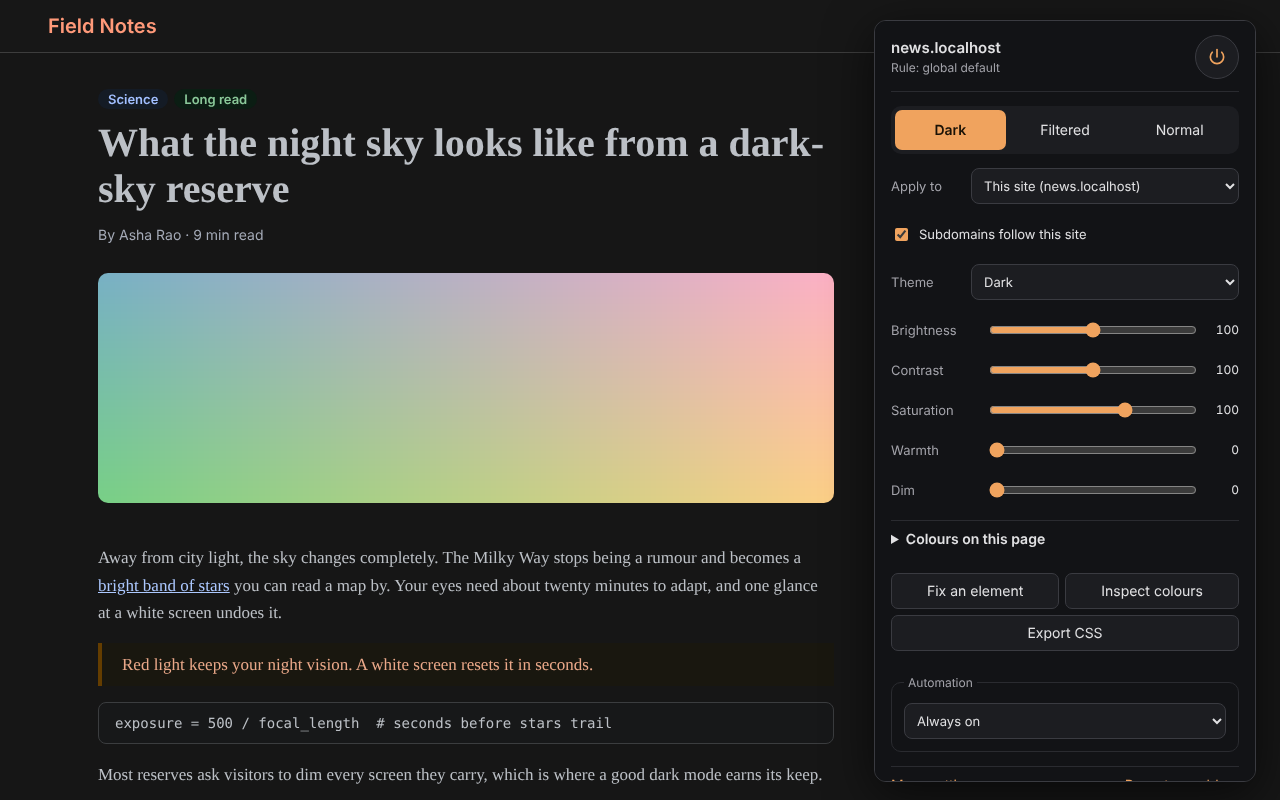
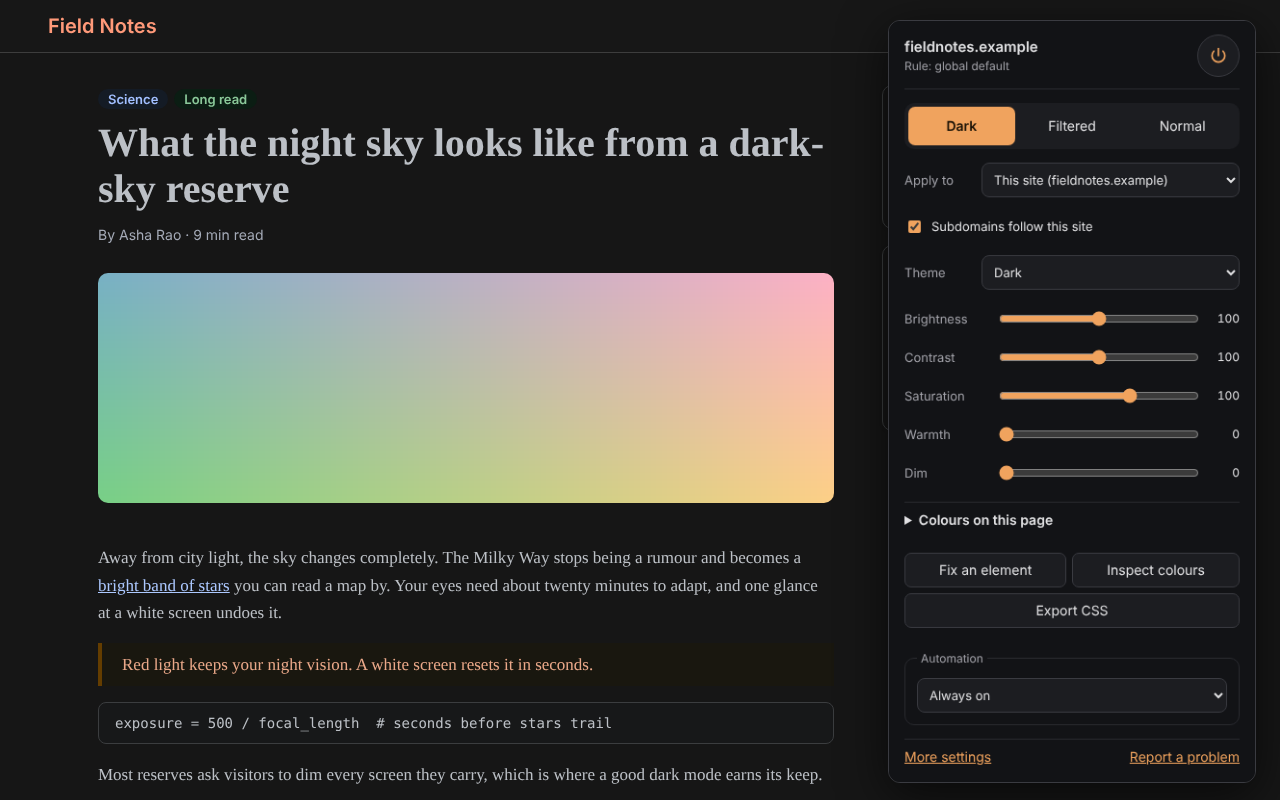
Prepare Chrome Web Store and Firefox Add-ons submission
- Source zip now holds the whole workspace plus BUILDING.md, so Firefox
  reviewers can rebuild the add-on; verified the rebuild is identical
- Name the store zips smart-dark-mode-<version>-<browser>.zip
- Add homepage_url, and minimum_chrome_version 111 for Chromium builds
- Release workflow replaces the files of an unpublished draft when run again
- Store listing: Firefox summary, categories, reviewer notes, data
  disclosure answers, image table and screenshot captions
- Store icon with padding, full popup screenshot, nicer PDF screenshot

diff --git a/apps/extension/wxt.config.ts b/apps/extension/wxt.config.ts
@@ -37,6 +37,26 @@ function pdfjsAssets(): { absoluteSrc: string; relativeDest: string }[] {
 export default defineConfig({
   srcDir: 'src',
   manifestVersion: 3,
+  zip: {
+    artifactTemplate: 'smart-dark-mode-{{version}}-{{browser}}.zip',
+    sourcesTemplate: 'smart-dark-mode-{{version}}-sources.zip',
+    // Firefox Add-ons reviewers rebuild the add-on from this zip. The extension imports
+    // workspace packages, so the zip holds the whole workspace, not just this folder.
+    sourcesRoot: '../..',
+    includeSources: [
+      'BUILDING.md',
+      'LICENSE',
+      'THIRD_PARTY_NOTICES.md',
+      'package.json',
+      'pnpm-lock.yaml',
+      'pnpm-workspace.yaml',
+      'tsconfig.base.json',
+      'apps/extension/**',
+      'packages/**',
+      'tests/harness/package.json',
+    ],
+    excludeSources: ['**/*.test.ts', 'apps/extension/.output/**', 'apps/extension/.wxt/**'],
+  },
   hooks: {
     'build:publicAssets': (_wxt, files) => {
       files.push(...pdfjsAssets());
@@ -49,6 +69,7 @@ export default defineConfig({
     name: '__MSG_extName__',
     description: '__MSG_extDescription__',
     default_locale: 'en',
+    homepage_url: 'https://github.com/nikhil914/smart-dark-mode',
     permissions: [
       'storage',
       'tabs',
@@ -107,6 +128,8 @@ export default defineConfig({
           },
         }
       : {}),
+    // Chromium 111 is the first with world: 'MAIN' content scripts in the manifest.
+    ...(browser !== 'firefox' && browser !== 'safari' ? { minimum_chrome_version: '111' } : {}),
     ...(browser === 'safari'
       ? { browser_specific_settings: { safari: { strict_min_version: '16.4' } } }
       : {}),

diff --git a/docs/store/LISTING.md b/docs/store/LISTING.md
@@ -1,15 +1,23 @@
 # Store listings
 
-Text and assets for each store. Screenshots and promo tiles are in `screenshots/` and are
-rendered by `node tests/harness/assets.mjs` after a build.
+Text and assets for each store. Screenshots, promo tiles and the Chrome Web Store icon are
+in `screenshots/` and are rendered by `node tests/harness/assets.mjs` after a build.
 
 ## Name
 
 Smart Dark Mode
 
-## Short description (Chrome: 132 characters max)
+## Short description
 
-Readable dark mode for every website: themes, per-site rules, dark PDF viewer. Free, open source, no tracking.
+Chrome and Edge show the manifest description (`extDescription` in
+`apps/extension/public/_locales/*/messages.json`) as the summary. It cannot be edited in
+the dashboard:
+
+> Dark mode for every website, with per-site rules, scheduling and no tracking.
+
+Firefox Add-ons summary (250 characters max) and other places that ask for one line:
+
+> Readable dark mode for every website: themes, per-site rules, dark PDF viewer. Free, open source, no tracking.
 
 ## Full description
 
@@ -45,10 +53,28 @@ Private
 
 ## Category
 
-- Chrome Web Store: Accessibility (secondary: Productivity)
+- Chrome Web Store: Accessibility (one category only)
 - Edge Add-ons: Accessibility
-- Firefox Add-ons: Appearance, Accessibility
+- Firefox Add-ons, desktop: Appearance
+- Firefox Add-ons, Android: User Interface, or the closest match offered
 - App Store: Utilities
+
+## Images
+
+| File | Chrome Web Store | Firefox Add-ons |
+| --- | --- | --- |
+| `store-icon-128.png` | Store icon | Not needed (taken from the add-on) |
+| `1-dark-page.png` to `5-pdf-viewer.png` (1280x800) | Screenshots, all five | Screenshots, all five |
+| `promo-440x280.png` | Small promo tile | Not used |
+| `promo-1400x560.png` | Marquee promo tile (optional) | Not used |
+
+Screenshot captions for Firefox Add-ons:
+
+1. Pages turn dark from the first frame, with text contrast kept.
+2. Before and after: colours are converted, not inverted.
+3. The popup: mode, theme and sliders for the current site.
+4. Options: themes, schedule, site rules and more.
+5. The built-in dark PDF viewer.
 
 ## Single purpose (Chrome)
 
@@ -64,21 +90,53 @@ Shows websites in dark colours, with controls for how and where that happens.
 - `scripting`: register styles that apply before first paint, so there is no white flash.
 - `contextMenus`: "Dark mode on this site", "Fix this element" and "Open PDF in dark viewer".
 - `declarativeNetRequestWithHostAccess`: redirect PDF addresses to the built-in dark viewer.
-- Remote code: none. The fixes file is data (CSS text and selectors), signed and checked
-  before use.
+- Remote code: none. Answer "No, I am not using remote code". The fixes file is data
+  (CSS text and selectors), signed and checked before use.
+
+Firefox only, not asked for in a form: `dns` resolves host names before cross-origin
+stylesheet fetches so requests to private network addresses can be refused.
+
+## Notes for Firefox reviewers
+
+Paste into "Notes to Reviewer" when uploading:
+
+> The add-on is built with WXT and Vite from TypeScript sources, so the uploaded files are
+> bundled and minified. The source zip is the full workspace. Build steps are in BUILDING.md
+> at its top level: Node 22, pnpm 10.28.0, then `pnpm install --frozen-lockfile` and
+> `pnpm --filter @sdm/extension build:firefox`. The output in
+> `apps/extension/.output/firefox-mv3/` matches the uploaded package.
+>
+> The linter warnings come from third-party libraries bundled unchanged: Preact
+> (innerHTML for dangerouslySetInnerHTML, unused by our code) and pdf.js (dynamic import of
+> its own worker and decoders, all shipped inside the package).
+>
+> To test: open any website. It turns dark. The toolbar popup changes the mode per site.
+> Open a PDF link to see the dark PDF viewer.
 
 ## Data use disclosures
 
-Collects no user data in any category. Not sold, not transferred, not used for anything
-unrelated to the extension's single purpose.
+Chrome and Edge: collects no user data in any category, so leave every box unticked. Tick
+the three statements: not sold or transferred to third parties, not used for purposes
+unrelated to the single purpose, not used for creditworthiness or lending.
+
+Firefox: the manifest declares `data_collection_permissions: none`, which AMO shows on the
+listing. Nothing to fill in.
 
 ## Privacy policy URL
 
 https://github.com/nikhil914/smart-dark-mode/blob/main/docs/PRIVACY.md
 
+## Homepage URL
+
+https://github.com/nikhil914/smart-dark-mode
+
 ## Support URL
 
 https://github.com/nikhil914/smart-dark-mode/issues
+
+## Licence
+
+MIT (Firefox Add-ons asks for it when the version is uploaded).
 
 ## App Store (Safari) extras
 

diff --git a/docs/RELEASE.md b/docs/RELEASE.md
@@ -14,17 +14,25 @@ up to the upload is automated.
    on `main`. Pushing a tag such as `v0.1.0` works too. The workflow runs the checks and
    attaches these to a draft release named after the version. When you publish the draft,
    the tag is created:
-   - `*-chrome.zip`: Chrome Web Store, Opera, and other Chromium stores
-   - `*-edge.zip`: Microsoft Edge Add-ons
-   - `*-firefox.zip` and `*-sources.zip`: Firefox Add-ons (AMO asks for the source zip
-     because the code is bundled)
-   - `*-safari.zip`: the web extension inside the Safari app, for reference
+   - `smart-dark-mode-<version>-chrome.zip`: Chrome Web Store, Opera, and other Chromium
+     stores
+   - `smart-dark-mode-<version>-edge.zip`: Microsoft Edge Add-ons
+   - `smart-dark-mode-<version>-firefox.zip` and `smart-dark-mode-<version>-sources.zip`:
+     Firefox Add-ons (AMO asks for the source zip because the code is bundled; it holds the
+     whole workspace and `BUILDING.md`)
+   - `smart-dark-mode-<version>-safari.zip`: the web extension inside the Safari app, for
+     reference
+
+   Running the workflow again before the draft is published replaces its files. Once a
+   version is published, raise the version for the next release: the stores refuse an
+   upload whose version is not higher than the last one.
 
 ## 2. Chrome Web Store
 
 Developer account: one-time USD 5 fee. Upload `*-chrome.zip` in the developer dashboard.
 Copy the listing text, single purpose, permission justifications and data disclosures from
-`docs/store/LISTING.md`. Add the screenshots and the 440x280 tile from `docs/store/screenshots/`.
+`docs/store/LISTING.md`. Add the store icon, screenshots and the 440x280 tile from
+`docs/store/screenshots/`.
 
 ## 3. Microsoft Edge Add-ons
 
@@ -33,10 +41,9 @@ Android installs extensions from the same listing.
 
 ## 4. Firefox Add-ons (desktop and Android)
 
-Free account. Upload `*-firefox.zip` and `*-sources.zip`, and say in the reviewer notes:
-"Build with `pnpm install --frozen-lockfile && pnpm --filter @sdm/extension build:firefox`
-(Node 22, pnpm 10)." The manifest already marks the add-on as Android compatible and
-declares that it collects no data.
+Free account. Upload `*-firefox.zip` and `*-sources.zip`, and paste the reviewer notes from
+`docs/store/LISTING.md`. `BUILDING.md` in the source zip has the build steps. The manifest
+already marks the add-on as Android compatible and declares that it collects no data.
 
 ## 5. Safari (macOS, iOS, iPadOS)
 
@@ -59,3 +66,7 @@ above only adds signing.
 These are separate from extension releases. Run the **Publish site fixes** workflow when
 `fixes/own.json` changes or Dark Reader's fixes should be picked up. It replaces the assets
 of the release tagged `fixes`. Before the first run, create the key pair (see README).
+
+The public key is built into the extension. A version released without it uses only the
+fixes bundled with it and never downloads any. Adding the key later takes a new extension
+version.

diff --git a/BUILDING.md b/BUILDING.md
@@ -1,0 +1,38 @@
+# Building from source
+
+These steps rebuild the exact packages that are uploaded to the stores. They are written
+for store reviewers, but anyone can follow them.
+
+## Requirements
+
+- Linux, macOS or Windows
+- Node.js 22 (any 22.x release)
+- pnpm 10.28.0. With Node 22 the simplest way is `corepack enable`, which picks the version
+  pinned in `package.json`. Otherwise run `npm install -g pnpm@10.28.0`.
+
+## Steps
+
+Run these from the folder that contains this file:
+
+```sh
+pnpm install --frozen-lockfile
+pnpm --filter @sdm/extension build:firefox
+```
+
+The Firefox add-on is written to `apps/extension/.output/firefox-mv3/`. Its contents match
+the uploaded `smart-dark-mode-<version>-firefox.zip`.
+
+Other targets use the same command with `build:chrome`, `build:edge` or `build:safari`.
+
+## What the build does
+
+- [WXT](https://wxt.dev) and Vite bundle and minify the TypeScript sources in
+  `apps/extension/src` and the workspace packages in `packages/`.
+- The PDF viewer uses `pdfjs-dist` from npm unchanged. Its fonts and WebAssembly image
+  decoders are copied from `node_modules/pdfjs-dist` (see `apps/extension/wxt.config.ts`).
+- No code is downloaded or generated at run time. The only remote file the extension may
+  load is a signed JSON file of CSS fixes for individual sites, which is data and is
+  verified before use.
+
+`tests/harness/package.json` is included only because the lockfile lists it as a workspace
+package. Nothing from it is part of the add-on.
